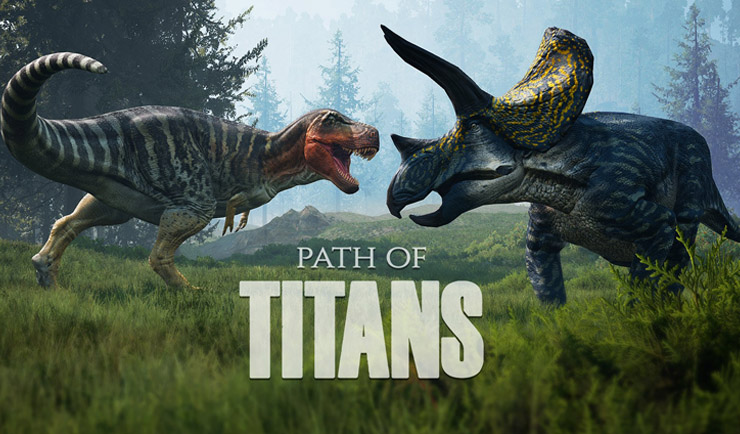
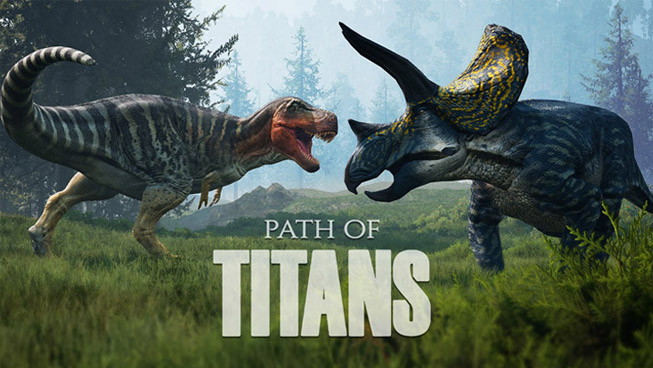
Porfolio images centered and all same size

diff --git a/index.html b/index.html
@@ -43,7 +43,7 @@
 								<p><strong>Multiplayer vehicle combat game made in the Quantum Engine.</strong></p>
 							</article>
 							<article class="col-4 col-12-xsmall work-item">
-								<a href="portfolio.html" target="" class="image fit thumb"><img src="images/pot/full.jpg" alt="Path of Titans preview image" /></a>
+								<a href="portfolio.html" target="" class="image fit thumb"><img src="images/pot/preview.jpg" alt="" /></a>
 								<h3>Unreal Engine Programmer: Path of Titans (C++)</h3>
 								<p><strong>MMO dinossaur videogame for PC, consoles & mobile devices.</strong></p>
 							</article>
@@ -66,12 +66,12 @@
 								<p><strong>My own game framework using OpenGL and the Box2D library.</strong></p>
 							</article>
 							<article class="col-4 col-12-xsmall work-item">
-								<a href="portfolio.html" target="" class="image fit thumb"><img src="images/louzan/preview.jpg" alt="Louzan preview image" /></a>
+								<a href="portfolio.html" target="" class="image fit thumb"><img src="images/louzan/preview.jpg" alt="" /></a>
 								<h3>Game Programmer: Lousã (Unreal Engine & Python)</h3>
 								<p><strong>PlayStation&#174; awarded father and son game in Lousã, Portugal.</strong></p>
 							</article>
 							<article class="col-4 col-12-xsmall work-item">
-								<a href="portfolio.html" target="" class="image fit thumb"><img src="images/helena/full.jpg" alt="Helena preview image"/></a>
+								<a href="portfolio.html" target="" class="image fit thumb"><img src="images/helena/preview.jpg" alt=""/></a>
 								<h3>Game Programmer: Helena (Unity Engine C#)</h3>
 								<p><strong>PlayStation&#174; awarded homage to a life in Oporto, Portugal.</strong></p>
 							</article>

diff --git a/assets/css/main.css b/assets/css/main.css
@@ -303,6 +303,7 @@ input, select, textarea {
 		flex-wrap: wrap;
 		box-sizing: border-box;
 		align-items: center;
+		justify-content: center;
 	}
 
 		.row > * {
